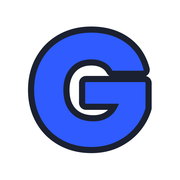
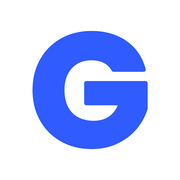
탭 아이콘: 흰 둥근 네모 위 파란 G
Claude-Session: https://claude.ai/code/session_01Awb27cTQnokDXCtxPFit2J

Changed region(s): [[0.1389, 0.1389, 0.8611, 0.8611]]

diff --git a/improv/index.html b/improv/index.html
@@ -7,9 +7,9 @@
 <link rel="stylesheet" href="../theme.css">
 <meta name="description" content="유명한 코드 진행을 반복해서 들으며 초견과 즉흥연주를 연습하는 페이지 (12마디 블루스 · 마이너 블루스)">
 <title>즉흥연주 | 기타 MasTer</title>
-<link rel="icon" href="../favicon.ico?v=4" sizes="any">
-<link rel="icon" type="image/png" href="../favicon.png?v=4">
-<link rel="apple-touch-icon" href="../apple-touch-icon.png?v=4">
+<link rel="icon" href="../favicon.ico?v=5" sizes="any">
+<link rel="icon" type="image/png" href="../favicon.png?v=5">
+<link rel="apple-touch-icon" href="../apple-touch-icon.png?v=5">
 <link rel="preconnect" href="https://fonts.googleapis.com">
 <link rel="stylesheet" href="https://fonts.googleapis.com/css2?family=IBM+Plex+Sans+KR:wght@400;500;700&family=Black+Han+Sans&family=Noto+Music&display=swap">
 <style>body{margin:0}[hidden]{display:none!important}

diff --git a/chord/index.html b/chord/index.html
@@ -7,9 +7,9 @@
 <link rel="stylesheet" href="../theme.css">
 <meta name="description" content="코드 진행을 보고 박자에 맞춰 쳐 본 다음, 피아노 소리로 정답을 확인하는 코드 초견 연습">
 <title>코드 초견 | 기타 MasTer</title>
-<link rel="icon" href="../favicon.ico?v=4" sizes="any">
-<link rel="icon" type="image/png" href="../favicon.png?v=4">
-<link rel="apple-touch-icon" href="../apple-touch-icon.png?v=4">
+<link rel="icon" href="../favicon.ico?v=5" sizes="any">
+<link rel="icon" type="image/png" href="../favicon.png?v=5">
+<link rel="apple-touch-icon" href="../apple-touch-icon.png?v=5">
 <link rel="preconnect" href="https://fonts.googleapis.com">
 <link rel="stylesheet" href="https://fonts.googleapis.com/css2?family=IBM+Plex+Sans+KR:wght@400;500;700&family=Black+Han+Sans&family=Noto+Music&display=swap">
 <style>body{margin:0}[hidden]{display:none!important}

diff --git a/chords/index.html b/chords/index.html
@@ -7,9 +7,9 @@
 <link rel="stylesheet" href="../theme.css">
 <meta name="description" content="기타 코드표 — 기본 코드(메이저·마이너·7th), 하이 코드(바레), 7th 코드, 빈 코드표">
 <title>코드표 | 기타 MasTer</title>
-<link rel="icon" href="../favicon.ico?v=4" sizes="any">
-<link rel="icon" type="image/png" href="../favicon.png?v=4">
-<link rel="apple-touch-icon" href="../apple-touch-icon.png?v=4">
+<link rel="icon" href="../favicon.ico?v=5" sizes="any">
+<link rel="icon" type="image/png" href="../favicon.png?v=5">
+<link rel="apple-touch-icon" href="../apple-touch-icon.png?v=5">
 <link rel="preconnect" href="https://fonts.googleapis.com">
 <link rel="stylesheet" href="https://fonts.googleapis.com/css2?family=IBM+Plex+Sans+KR:wght@400;500;700&family=Black+Han+Sans&family=Noto+Music&display=swap">
 <style>body{margin:0}[hidden]{display:none!important}

diff --git a/metronome/index.html b/metronome/index.html
@@ -7,9 +7,9 @@
 <link rel="stylesheet" href="../theme.css">
 <meta name="description" content="빠르기·박자·첫 박 강세·탭 템포가 있는 간단한 온라인 메트로놈">
 <title>메트로놈 | 기타 MasTer</title>
-<link rel="icon" href="../favicon.ico?v=4" sizes="any">
-<link rel="icon" type="image/png" href="../favicon.png?v=4">
-<link rel="apple-touch-icon" href="../apple-touch-icon.png?v=4">
+<link rel="icon" href="../favicon.ico?v=5" sizes="any">
+<link rel="icon" type="image/png" href="../favicon.png?v=5">
+<link rel="apple-touch-icon" href="../apple-touch-icon.png?v=5">
 <link rel="preconnect" href="https://fonts.googleapis.com">
 <link rel="stylesheet" href="https://fonts.googleapis.com/css2?family=IBM+Plex+Sans+KR:wght@400;500;700&family=Black+Han+Sans&family=Noto+Music&display=swap">
 <style>body{margin:0}[hidden]{display:none!important}

diff --git a/harmony/index.html b/harmony/index.html
@@ -7,9 +7,9 @@
 <link rel="stylesheet" href="../theme.css">
 <meta name="description" content="화성학을 차근차근 익히는 페이지 (준비 중)">
 <title>화성학 | 기타 MasTer</title>
-<link rel="icon" href="../favicon.ico?v=4" sizes="any">
-<link rel="icon" type="image/png" href="../favicon.png?v=4">
-<link rel="apple-touch-icon" href="../apple-touch-icon.png?v=4">
+<link rel="icon" href="../favicon.ico?v=5" sizes="any">
+<link rel="icon" type="image/png" href="../favicon.png?v=5">
+<link rel="apple-touch-icon" href="../apple-touch-icon.png?v=5">
 <link rel="preconnect" href="https://fonts.googleapis.com">
 <link rel="stylesheet" href="https://fonts.googleapis.com/css2?family=IBM+Plex+Sans+KR:wght@400;500;700&family=Black+Han+Sans&family=Noto+Music&display=swap">
 <style>body{margin:0}[hidden]{display:none!important}

diff --git a/ear/index.html b/ear/index.html
@@ -9,9 +9,9 @@
 <style>body{margin:0}[hidden]{display:none!important}img{max-width:100%}
 </style>
 <title>멜로디 청음 | 기타 MasTer</title>
-<link rel="icon" href="../favicon.ico?v=4" sizes="any">
-<link rel="icon" type="image/png" href="../favicon.png?v=4">
-<link rel="apple-touch-icon" href="../apple-touch-icon.png?v=4">
+<link rel="icon" href="../favicon.ico?v=5" sizes="any">
+<link rel="icon" type="image/png" href="../favicon.png?v=5">
+<link rel="apple-touch-icon" href="../apple-touch-icon.png?v=5">
 <link rel="preconnect" href="https://fonts.googleapis.com">
 <link rel="stylesheet" href="https://fonts.googleapis.com/css2?family=IBM+Plex+Sans+KR:wght@400;500;700&family=Black+Han+Sans&family=Noto+Music&display=swap">
 <style>

diff --git a/chordear/index.html b/chordear/index.html
@@ -9,9 +9,9 @@
 <style>body{margin:0}[hidden]{display:none!important}img{max-width:100%}
 </style>
 <title>코드 청음 | 기타 MasTer</title>
-<link rel="icon" href="../favicon.ico?v=4" sizes="any">
-<link rel="icon" type="image/png" href="../favicon.png?v=4">
-<link rel="apple-touch-icon" href="../apple-touch-icon.png?v=4">
+<link rel="icon" href="../favicon.ico?v=5" sizes="any">
+<link rel="icon" type="image/png" href="../favicon.png?v=5">
+<link rel="apple-touch-icon" href="../apple-touch-icon.png?v=5">
 <link rel="preconnect" href="https://fonts.googleapis.com">
 <link rel="stylesheet" href="https://fonts.googleapis.com/css2?family=IBM+Plex+Sans+KR:wght@400;500;700&family=Black+Han+Sans&family=Noto+Music&display=swap">
 <style>

diff --git a/index.html b/index.html
@@ -9,9 +9,9 @@
 <style>body{margin:0}[hidden]{display:none!important}img{max-width:100%}
 </style>
 <title>기타 MasTer</title>
-<link rel="icon" href="favicon.ico?v=4" sizes="any">
-<link rel="icon" type="image/png" href="favicon.png?v=4">
-<link rel="apple-touch-icon" href="apple-touch-icon.png?v=4">
+<link rel="icon" href="favicon.ico?v=5" sizes="any">
+<link rel="icon" type="image/png" href="favicon.png?v=5">
+<link rel="apple-touch-icon" href="apple-touch-icon.png?v=5">
 <link rel="preconnect" href="https://fonts.googleapis.com">
 <link rel="stylesheet" href="https://fonts.googleapis.com/css2?family=IBM+Plex+Sans+KR:wght@400;500;700&family=Black+Han+Sans&family=Noto+Music&display=swap">
 <style>

diff --git a/book/index.html b/book/index.html
@@ -2,9 +2,9 @@
 <html lang="ko"><head><meta charset="utf-8">
 <meta name="viewport" content="width=device-width,initial-scale=1">
 <title>코드표 | 기타 MasTer</title>
-<link rel="icon" href="../favicon.ico?v=4" sizes="any">
-<link rel="icon" type="image/png" href="../favicon.png?v=4">
-<link rel="apple-touch-icon" href="../apple-touch-icon.png?v=4">
+<link rel="icon" href="../favicon.ico?v=5" sizes="any">
+<link rel="icon" type="image/png" href="../favicon.png?v=5">
+<link rel="apple-touch-icon" href="../apple-touch-icon.png?v=5">
 <meta http-equiv="refresh" content="0; url=../chords/">
 <link rel="canonical" href="../chords/">
 </head><body><p><a href="../chords/">코드표로 이동</a></p>
